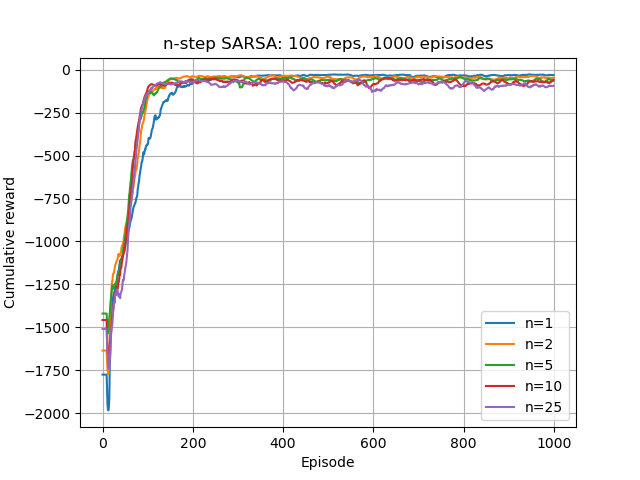
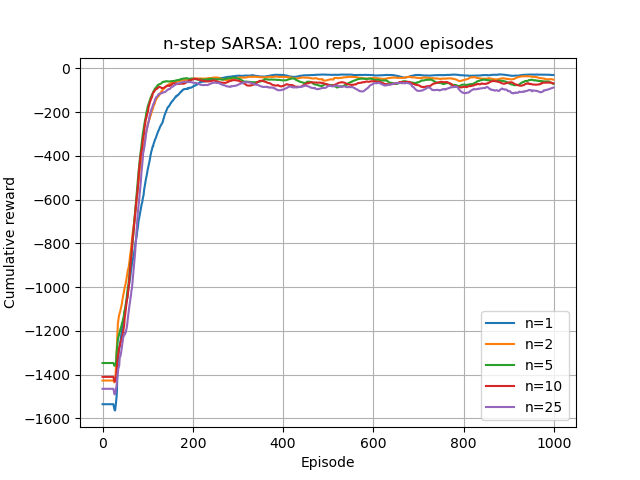
Increased smoothing for n-sarsa

diff --git a/IRL_A2/ShortCutExperiment.py b/IRL_A2/ShortCutExperiment.py
@@ -529,7 +529,7 @@ def experiment_nstepsarsa():
                 "alpha": 0.1,
                 "gamma": 1.0
             },
-            smoothing_window=10
+            smoothing_window=25
         )
         nsarsa_curves.append(avg_curve)
         nsarsa_labels.append(f"n={n_val}")
